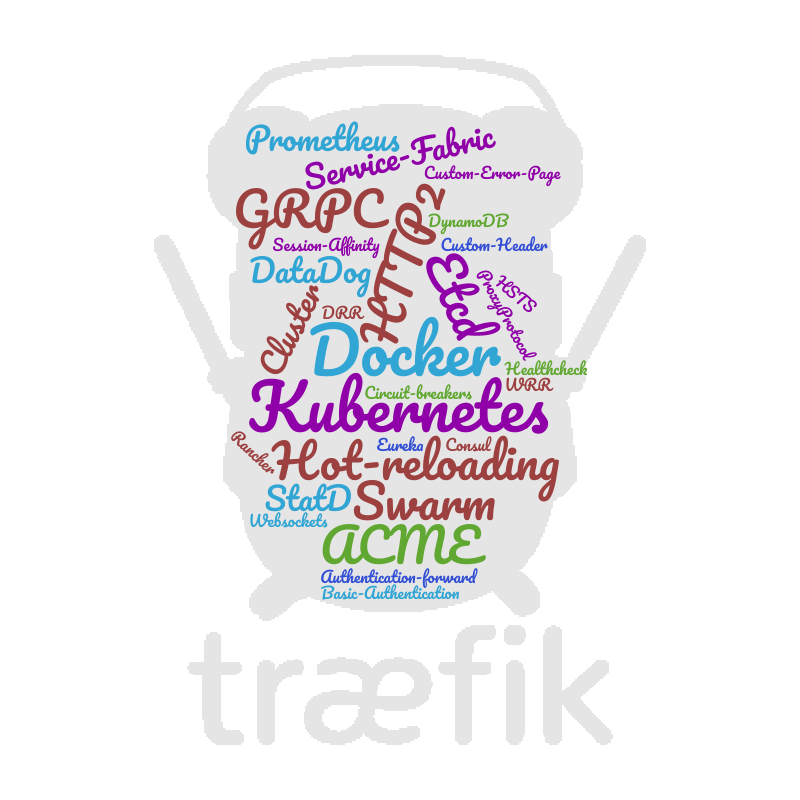
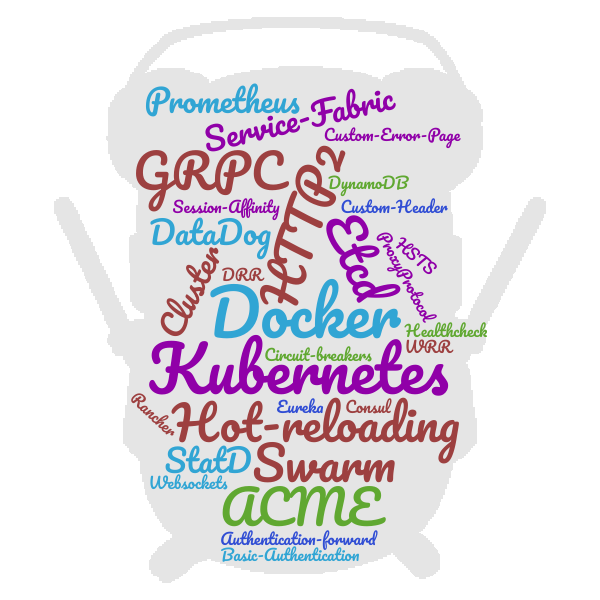
Fix slides

diff --git a/slides/slides.md b/slides/slides.md
@@ -29,16 +29,26 @@ Mum : "..."
 Me : "Your Internet Box is like a proxy!"
 ```
 
-![Internet Box](./slides/images/box-wifi.png) <!-- .element: style="height:300px;width:600px;" class="fragment" data-fragment-index="1" -->
+![Internet Box](./slides/images/box-wifi.png) <!-- .element: style="margin-top: -10px;height:300px;width:600px;" class="fragment" data-fragment-index="1" -->
 
-<div class="fragment">
+<div class="fragment" style="margin-top: -30px;" >
 ```
 Me : "Træfik allows doing the reverse."
 ```
 </div>
-<div class="fragment">
+<div class="fragment" style="margin-top: -20px;">
 ```
-Mum : "OK! It's like Nginx and HA Proxy?!"
+Mum : "OK! It's like Nginx?!"
+```
+</div>
+<div class="fragment" style="margin-top: -20px;">
+```
+Me : "Not exactly! Nginx is a server web which can do RP."
+```
+</div>
+<div class="fragment" style="margin-top: -20px;">
+```
+Mum : "Understood! It's like HA Proxy!"
 ```
 </div>
 ```
@@ -95,7 +105,7 @@ Traefik ne fait que RP, on delègue le reste
 
 ## Træfik in details
 
-* Reverse Proxy Dynamic <!-- .element: style="margin-top: 40px; margin-left:-300px"-->
+* Reverse Proxy Dynamic <!-- .element: style=" margin-left:-300px"-->
 * Written in GO (Single binary) <!-- .element: style="margin-left:-300px"-->
 * Open Source <!-- .element: style="margin-left:-300px"-->
 * Docker official image <!-- .element: style="margin-left:-300px"-->
@@ -105,9 +115,25 @@ Traefik ne fait que RP, on delègue le reste
 * Circuit breakers <!-- .element: style="margin-left:-300px"-->
 * Websockets <!-- .element: style="margin-left:-300px"-->
 * HTTP2 <!-- .element: style="margin-left:-300px"-->
+* Prometheus, DataDog, StatD <!-- .element: style="margin-left:-300px"-->
 * ... <!-- .element: style="margin-left:-300px"-->
 
-![Features](./slides/images/wordcloud02.png) <!-- .element: style="border:none; float: right; width: 50%; margin-top: -500px; margin-right:-150px"-->
+![Features](./slides/images/wordcloud.png) <!-- .element: style="border:none; float: right; width: 50%; margin-top: -550px; margin-right:-150px"-->
+
+Note:
+
+* Reverse Proxy Dynamic  Written in GO (Single binary)  Open Source  Docker official image
+* Multi-Backends : Docker, SwarmMode, Kub, Meso/Marathon, Consul/ETCD2-3/ZK, DynamoDB, Eureka, RANCHER, Service Fabric (1.5)
+* Hot reloading
+* Load-balancing: WRR, DRR
+* Circuit breakers
+* Websockets
+* HTTP2
+* Monitoring : Prometheus, DataDog, StatD
+* 1.1 : CLUSTER MODE BASIC AUTH GLOBAL / FRONTEND (1.3)  SESSION AFFINITY
+* 1.2 :  HEALTHCHECKS TRAEFIK BUG
+* 1.4 : GRPC - AUTH FORWARD SSL REDIRECT, CUSTOM ERROR PAGES CUSTOM HEADERS, PROXY PROTOCOL MULTI ARCH, HSTS...
+* 1.5 : Rate limiting Dynamic TLS Custom Header Docker et Kube
 
 ---
 
@@ -117,7 +143,7 @@ Traefik ne fait que RP, on delègue le reste
 
 ---
 
-## Let's talk about SSL...
+## Let's talk about Security...
 
 * Auto-generated unsigned certificate <!-- .element: style="margin-top: 40px" class="fragment" data-fragment-index="1" -->
 * Statically provided certificates <!-- .element: class="fragment" data-fragment-index="2" -->
@@ -175,7 +201,7 @@ Version 1.5</BR>
 # WE HAVE CHEESE <!-- .element: style="margin-top: 100px"-->
 -
 
-# I HAVE STICKERS
+# ... AND STICKERS
 
 ![Traefik](./slides/images/traefik-logo.png) <!-- .element: style="border:none" -->
 
